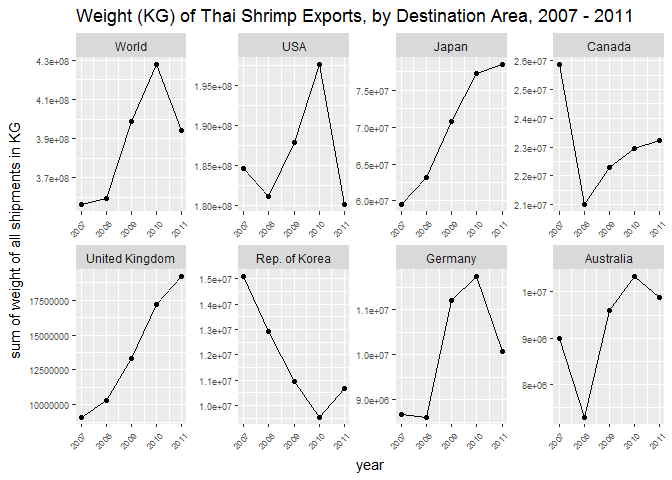
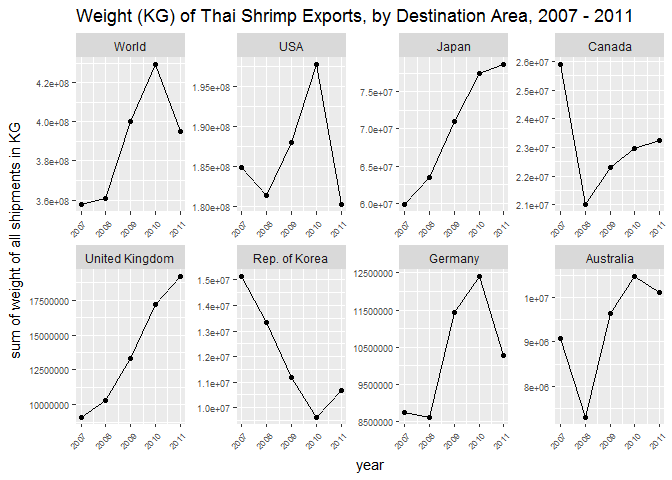
remove param "ssl_verify_peer"

diff --git a/README.md b/README.md
@@ -13,18 +13,7 @@ Please [report](https://github.com/ChrisMuir/comtradr/issues) issues, comments, 
 
 I've also built a Shiny app for visualizing comtrade shipping data, that's powered by this package. The app can be viewed [here](https://chrismuir.shinyapps.io/comtrade_plot_shinyapp/).
 
-**NOTE**: As of 2017-05-28, the core functions of this package are no longer working properly on Windows machines, they fail with error message:
-
-    Error in curl::curl_fetch_memory(url, handle = handle) : 
-      Peer certificate cannot be authenticated with given CA certificates
-
-Which essentially means there's a CA certificate issue preventing curl from completing the connection. I believe the UN site hosting the DB is the issue, as there are issues with its SSL certificate per [ssldecoder](https://ssldecoder.org/?host=comtrade.un.org&port=&csr=&s=).
-
-As a workaround, I've included a new parameter to these functions, `ssl_verify_peer`, which is simply passed directly to the param `ssl_verifypeer` within the function call to `httr::GET()`. The default to this new param is `TRUE` (the more secure option), but the user may set this to `FALSE` if they choose, which tells curl to skip the SSL certificate verification step. This should only be done if you trust the API site (<https://comtrade.un.org/>), and if you fully understand the security risks/implications of this decision.
-
-These edits are currently available in the dev version available from this repo.
-
-I have voluntarily archived this package on CRAN until these issues can be resolved.
+**NOTE**: As of 2017-06-27, the curl errors due to an inadility to validate the SSL certificate of the API site are no longer appearing, I believe that UN Comtrade fixed their SSL cert issue.
 
 Installation
 ------------
@@ -46,7 +35,7 @@ library(comtradr)
 
 # First, read in the country code lookup table as a dataframe from Comtrade. 
 # This will be used as a parameter in the API calls.
-countrydf <- ct_countries_table(ssl_verify_peer = FALSE)
+countrydf <- ct_countries_table()
 
 # This object can can also be used to look up the exact spellings of countries 
 # prior to making API calls.
@@ -57,8 +46,7 @@ country_lookup("korea", "reporter", countrydf)
 example1 <- ct_search(reporters = "China", 
                       partners = c("Rep. of Korea", "USA", "Mexico"), 
                       countrytable = countrydf, 
-                      tradedirection = "exports", 
-                      ssl_verify_peer = FALSE)
+                      tradedirection = "exports")
 
 # Inspect the return data
 str(example1$data)
@@ -106,15 +94,10 @@ str(example1$data)
 library(comtradr)
 
 # First, read in the commodity code lookup table as a dataframe from Comtrade.
-commoditydf <- ct_commodities_table("HS", ssl_verify_peer = FALSE)
+commoditydf <- ct_commodities_table("HS")
 
 # Then search for shrimp.
-commodity_lookup("shrimp", commoditydf)
-#> [1] "030613 - Shrimps and prawns, frozen"                                                                                                                                                                                                         
-#> [2] "030623 - Shrimps and prawns, not frozen"                                                                                                                                                                                                     
-#> [3] "160520 - Shrimps and prawns, prepared or preserved"                                                                                                                                                                                          
-#> [4] "160521 - Preparations of meat, of fish or of crustaceans, molluscs or other aquatic invertebrates // Crustaceans, molluscs and other aquatic invertebrates, prepared or preserved. // - Shrimps and prawns : // -- Not in airtight container"
-#> [5] "160529 - Preparations of meat, of fish or of crustaceans, molluscs or other aquatic invertebrates // Crustaceans, molluscs and other aquatic invertebrates, prepared or preserved. // - Shrimps and prawns : // -- Other"
+shrimp_codes <- commodity_lookup("shrimp", commoditydf, return_code = TRUE, return_char = TRUE)
 
 # API query.
 example2 <- ct_search(reporters = "Thailand", 
@@ -123,16 +106,11 @@ example2 <- ct_search(reporters = "Thailand",
                       tradedirection = "exports", 
                       startdate = "2007-01-01", 
                       enddate = "2011-01-01", 
-                      commodcodes = c("030613", 
-                                      "030623", 
-                                      "160520", 
-                                      "160521", 
-                                      "160529"), 
-                      ssl_verify_peer = FALSE)
+                      commodcodes = shrimp_codes)
 
 # Inspect the output
 str(example2$data)
-#> 'data.frame':    1056 obs. of  35 variables:
+#> 'data.frame':    1203 obs. of  35 variables:
 #>  $ Classification        : chr  "H3" "H3" "H3" "H3" ...
 #>  $ Year                  : int  2007 2007 2007 2007 2007 2007 2007 2007 2007 2007 ...
 #>  $ Period                : int  2007 2007 2007 2007 2007 2007 2007 2007 2007 2007 ...
